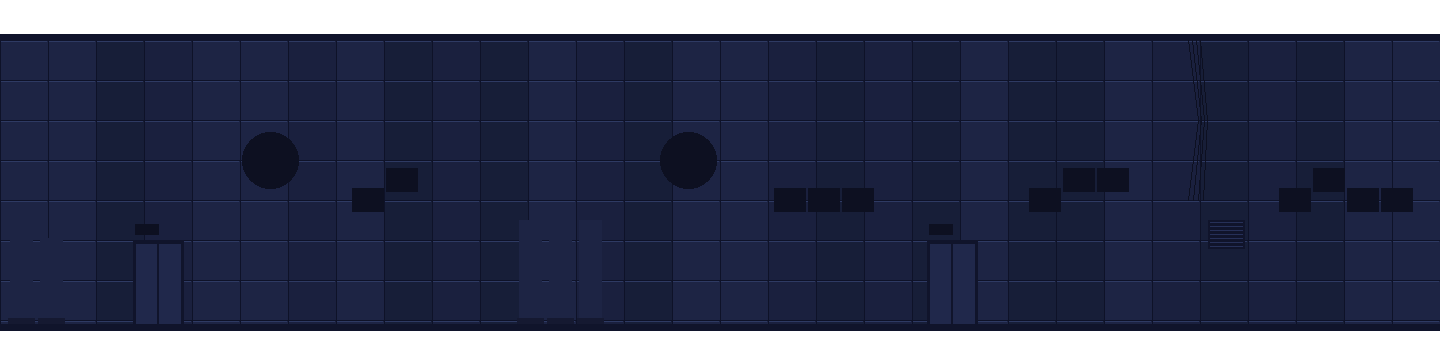
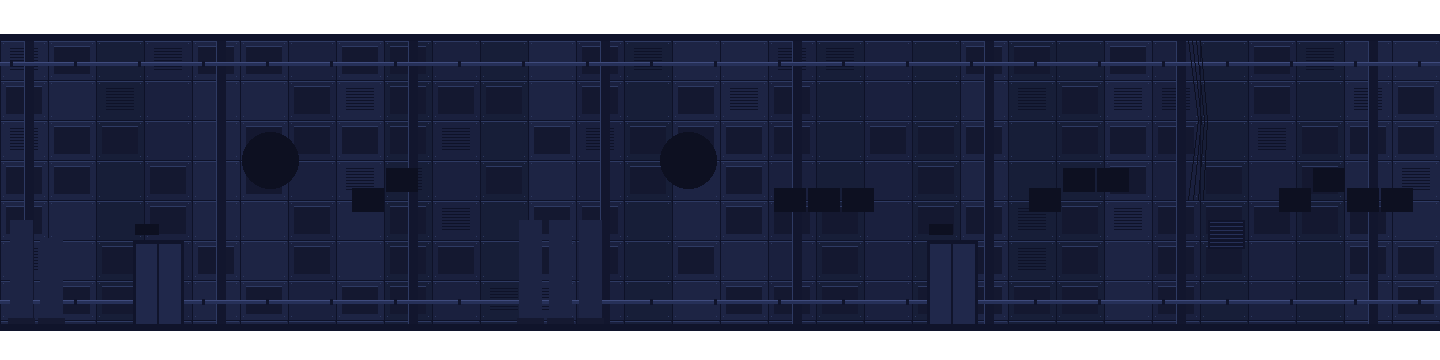
Vary the substructure, give lab walls architecture, add transition FX
- biome_art.under_layer: irregular arches with biome content instead of
  one repeated arch every 120 px (Lower City stalls/shops with signs,
  gated tunnels, slack cables, faded tags; Industrial furnace mouths,
  conveyors and hazard bands; Lab/Core maintenance corridor with lit
  portholes and conduit boxes). Fade starts lower so it reads.
- biome_art.lab_mid: panel insets, grilles, bolts, status lights, lit
  pilasters and conduit runs, from a separate RNG so existing equipment
  keeps its places. Other generated PNGs are byte-identical.
- scene/fx/transition_fx.gd: scan bands, a cyan scan line and glitch
  blocks drawn over the existing fade while it is mid-way; fade timing
  and logic unchanged; MINIMAL disables it.
- ui/loadout_hud.gd: larger type, big ammo count with low-ammo colour,
  recharge fill over accessory icons with seconds left, key hints only
  without touch.

Claude-Session: https://claude.ai/code/session_01BsDvQbboM7WnaEtQSbuWgs

diff --git a/tools/visual/biome_art.py b/tools/visual/biome_art.py
@@ -218,32 +218,103 @@ def city_mid():
     return pk.haze(lay.im, CITY["haze"], 0.18), signs.im, pk.glow(signs.im, 3.5, 2.2)
 
 
-def under_layer(seed, wall, dark, pipe, lights, arch=True):
+def under_layer(seed, wall, dark, pipe, lights, arch=True, kind="city"):
     """Substructure under the street (640x180 native): retaining wall, arches, pipes,
     service lights. Anchored right below the street line so the lower half of the
-    screen is never an empty void."""
+    screen is never an empty void.
+    01/11 (Missão Visual 02): arcos irregulares e conteúdo por bioma, para a faixa não
+    repetir o mesmo arco a cada 120 px — Cidade Baixa: barracas/lojas acesas, túneis com
+    grade, cabos e pichações; Industrial: bocas de forno e esteiras; Laboratório/Núcleo:
+    corredor de manutenção com escotilhas e caixas de conduíte."""
     c = Canvas(640, 180, wrap=True)
     rnd = random.Random(seed)
+    hi = mix(wall, (255, 255, 255), 0.12)
     c.rect(0, 0, 639, 179, rgba(wall))
-    c.rect(0, 0, 639, 2, rgba(mix(wall, (255, 255, 255), 0.12)))
+    c.rect(0, 0, 639, 2, rgba(hi))
     for y in range(8, 180, 14):                                     # masonry / panel courses
         c.rect(0, y, 639, y, rgba(mix(wall, dark, 0.5)))
     if arch:
-        for ax in range(20, 640, 120):                              # arches / culverts
-            c.ellipse(ax, 40, ax + 76, 150, rgba(dark))
-            c.rect(ax, 95, ax + 76, 179, rgba(dark))
-            c.d.arc((ax, 40, ax + 76, 150), 180, 360, fill=rgba(mix(wall, (255, 255, 255), 0.18)))
+        x = rnd.randint(4, 20)
+        while x < 600:
+            aw = rnd.randint(58, 96)
+            top = rnd.randint(36, 48)
+            c.ellipse(x, top, x + aw, top + aw + 20, rgba(dark))
+            c.rect(x, top + aw // 2 + 6, x + aw, 179, rgba(dark))
+            c.d.arc((x, top, x + aw, top + aw + 20), 180, 360, fill=rgba(mix(wall, (255, 255, 255), 0.18)))
+            cx = x + aw // 2
+            roll = rnd.random()
+            if kind == "city" and roll < 0.45:                         # barraca/loja acesa no arco
+                warm = rnd.choice([hexc("ffb347"), hexc("ff8a5a"), hexc("4fe3f0")])
+                c.rect(x + 10, top + 30, x + aw - 10, top + 62, rgba(mix(warm, dark, 0.55)))
+                c.rect(x + 12, top + 32, x + aw - 12, top + 46, rgba(mix(warm, dark, 0.25)))
+                for sy in range(top + 32, top + 46, 3):                # persiana meio aberta
+                    c.rect(x + 12, sy, x + aw - 12, sy, rgba(mix(warm, dark, 0.6)))
+                c.rect(x + 8, top + 62, x + aw - 8, top + 64, rgba(pipe))
+                sign = rnd.choice(["24H", "RAMEN", "FIX", "CHIPS", "BAR"])
+                sx = cx - pk.text_width(sign) // 2
+                c.rect(sx - 2, top + 20, sx + pk.text_width(sign) + 1, top + 27, rgba(dark))
+                pk.text(c, sx, top + 21, sign, rgba(rnd.choice([hexc("ff4fb4"), hexc("4fe3f0"), hexc("ffb347")])))
+            elif kind == "city" and roll < 0.70:                       # túnel com grade
+                for gx in range(x + 8, x + aw - 6, 6):
+                    c.rect(gx, top + 26, gx, 120, rgba(mix(wall, dark, 0.3)))
+                c.ellipse(cx - 6, top + 46, cx + 6, top + 54, rgba(mix(lights[0], dark, 0.6)))
+            elif kind == "industrial" and roll < 0.40:                 # boca de forno
+                for k in range(6):
+                    glow = mix(hexc("ff4a1f"), dark, k / 6)
+                    c.rect(x + 12 + k, top + 40 + k * 3, x + aw - 12 - k, top + 60, rgba(glow))
+                c.rect(x + 10, top + 60, x + aw - 10, top + 63, rgba(pipe))
+                for k in range(4):
+                    c.px(x + 16 + rnd.randint(0, aw - 30), top + 34 + rnd.randint(0, 6), rgba(hexc("ffd27a")))
+            elif kind == "industrial" and roll < 0.65:                 # esteira com caixas
+                c.rect(x + 6, top + 54, x + aw - 6, top + 57, rgba(pipe))
+                for bx in range(x + 10, x + aw - 14, 16):
+                    c.rect(bx, top + 46, bx + 10, top + 53, rgba(mix(hexc("6a4a2a"), dark, 0.3)))
+            if kind == "city" and rnd.random() < 0.6:                  # cartaz no pilar
+                px_ = x + aw + rnd.randint(6, 18)
+                c.rect(px_, 46, px_ + 10, 62, rgba(rnd.choice([hexc("5a2a5a"), hexc("2a4a6a"), hexc("6a5a2a")])))
+                c.rect(px_ + 2, 49, px_ + 8, 50, rgba(mix(wall, (255, 255, 255), 0.4)))
+            if kind == "industrial" and rnd.random() < 0.5:            # faixa de perigo no pilar
+                px_ = x + aw + 8
+                for k in range(0, 14, 4):
+                    c.rect(px_ + k, 70, px_ + k + 1, 74, rgba(hexc("ffb347")))
+            x += aw + rnd.randint(26, 64)
+    else:                                                           # corredor de manutenção (lab/núcleo)
+        c.rect(0, 46, 639, 76, rgba(mix(wall, dark, 0.35)))
+        c.rect(0, 46, 639, 46, rgba(hi))
+        x = rnd.randint(6, 30)
+        while x < 620:
+            if rnd.random() < 0.55:                                     # escotilha iluminada
+                c.ellipse(x, 52, x + 16, 68, rgba(pipe))
+                c.ellipse(x + 3, 55, x + 13, 65, rgba(mix(lights[0], dark, 0.45)))
+                c.px(x + 6, 57, rgba(mix(lights[0], (255, 255, 255), 0.4)))
+            else:                                                       # caixa de conduíte
+                c.rect(x, 54, x + 18, 68, rgba(pipe))
+                c.rect(x + 2, 56, x + 16, 57, rgba(mix(pipe, (255, 255, 255), 0.2)))
+                c.px(x + 14, 64, rgba(rnd.choice(lights)))
+            x += rnd.randint(30, 70)
     for py in (26, 34, 120):                                        # pipe runs
         c.rect(0, py, 639, py + 4, rgba(pipe))
         c.rect(0, py, 639, py, rgba(mix(pipe, (255, 255, 255), 0.25)))
         for cx in range(rnd.randint(0, 40), 640, rnd.randint(70, 110)):
             c.rect(cx, py - 1, cx + 3, py + 5, rgba(dark))
+    if kind == "city":
+        for _ in range(7):                                          # cabos frouxos entre os canos
+            x0 = rnd.randint(0, 600)
+            span = rnd.randint(40, 90)
+            sag = rnd.randint(4, 9)
+            pts = [(x0 + k * span / 8, 18 + sag * math.sin(math.pi * k / 8)) for k in range(9)]
+            c.line(pts, rgba(mix(dark, wall, 0.3)))
+        for _ in range(5):                                          # pichações apagadas
+            gx, gy = rnd.randint(0, 620), rnd.randint(66, 84)
+            col = rnd.choice([hexc("ff4fb4"), hexc("4fe3f0"), hexc("ffb347")])
+            pts = [(gx + k * 3, gy + rnd.randint(-3, 3)) for k in range(6)]
+            c.line(pts, rgba(mix(col, wall, 0.5), 200))
     for lx in range(60, 640, 160):                                  # service lights
         col = lights[(lx // 160) % len(lights)]
         c.rect(lx, 12, lx + 5, 14, rgba(col))
     fade = Canvas(640, 180)
-    for y in range(60, 180):                                        # sinks into darkness
-        k = min(1.0, (y - 60) / 110)
+    for y in range(76, 180):                                        # sinks into darkness
+        k = min(1.0, (y - 76) / 100)
         fade.rect(0, y, 639, y, rgba(dark, int(255 * round(k * 5) / 5)))
     c.im.alpha_composite(fade.im)
     return c.im
@@ -653,7 +724,7 @@ def build_industrial():
     far, beacons = ind_far()
     mid, signs, glow_ = ind_mid()
     images = {"sky": ind_sky(), "far": far, "far_beacons": beacons, "mid": mid, "mid_signs": signs, "mid_glow": glow_,
-              "under": under_layer(251, hexc("1e1a17"), hexc("0c0a09"), hexc("3a3430"), [hexc("ffb347"), hexc("ff4a3a")]),
+              "under": under_layer(251, hexc("1e1a17"), hexc("0c0a09"), hexc("3a3430"), [hexc("ffb347"), hexc("ff4a3a")], kind="industrial"),
               "rail": ind_gantry(), "mist_far": mist(hexc("5a5048"), 261, (14, 34)), "mist_near": mist(hexc("8a6a50"), 262, (12, 30))}
     images.update(ind_props())
     images.update(ind_tiles())
@@ -721,6 +792,29 @@ def lab_mid():
         for y in range(top, STREET, 40):
             lay.rect(x, y, x + 47, y, rgba(LAB["seam"]))
             lay.rect(x + 1, y + 1, x + 46, y + 1, rgba(LAB["edge"]))
+    detail = random.Random(317)                                     # 01/11: arquitetura dos painéis (RNG próprio)
+    for x in range(0, W, 48):
+        for y in range(top, STREET - 40, 40):
+            roll = detail.random()
+            if roll < 0.45:                                         # painel com recorte interno
+                lay.rect(x + 6, y + 6, x + 41, y + 33, rgba(mix(LAB["panel"][0], hexc("05070e"), 0.35)))
+                lay.rect(x + 6, y + 6, x + 41, y + 6, rgba(LAB["edge"]))
+            elif roll < 0.60:                                       # grelha
+                for gy in range(y + 8, y + 32, 3):
+                    lay.rect(x + 10, gy, x + 37, gy, rgba(LAB["seam"]))
+            for bx, by in ((x + 3, y + 3), (x + 44, y + 3), (x + 3, y + 36), (x + 44, y + 36)):
+                lay.px(bx, by, rgba(LAB["edge"]))                   # parafusos
+            if detail.random() < 0.12:
+                lights.px(x + 40, y + 10, rgba(detail.choice([LAB["cyan"], LAB["green"], LAB["mag"]])))
+    for px_ in range(24, W, 192):                                   # pilastras com fita de luz
+        lay.rect(px_, top, px_ + 9, STREET, rgba(hexc("10162c")))
+        lay.rect(px_, top, px_, STREET, rgba(LAB["edge"]))
+        lights.rect(px_ + 4, top + 12, px_ + 5, STREET - 20, rgba(LAB["cyan"], 110))
+    for cy in (top + 22, STREET - 30):                              # eletrodutos horizontais
+        lay.rect(0, cy, W - 1, cy + 3, rgba(hexc("2a3660")))
+        lay.rect(0, cy, W - 1, cy, rgba(hexc("4a5a90")))
+        for bx in range(10, W, 64):
+            lay.rect(bx, cy - 1, bx + 2, cy + 4, rgba(hexc("0e1428")))
     lay.rect(0, top - 6, W - 1, top, rgba(hexc("0e1428")))
     for x in range(0, W, 96):                                       # ceiling fluorescent bars
         col = LAB["mag"] if (x // 96) % 3 == 0 else LAB["white"]
@@ -866,7 +960,7 @@ def build_lab():
     far, lights = lab_far()
     mid, signs, glow_ = lab_mid()
     images = {"sky": lab_sky(), "far": far, "far_beacons": lights, "mid": mid, "mid_signs": signs, "mid_glow": glow_,
-              "under": under_layer(331, hexc("141a30"), hexc("070a16"), hexc("2a3660"), [LAB["cyan"], LAB["mag"]], arch=False),
+              "under": under_layer(331, hexc("141a30"), hexc("070a16"), hexc("2a3660"), [LAB["cyan"], LAB["mag"]], arch=False, kind="lab"),
               "rail": lab_ceiling(), "mist_far": mist(hexc("4a3a8a"), 341, (8, 22)), "mist_near": mist(hexc("8a4aa0"), 342, (8, 22))}
     images.update(lab_props())
     images.update(lab_tiles())
@@ -951,7 +1045,7 @@ def build_core():
     far, lights = core_far()
     mid, signs, glow_ = core_mid()
     images = {"sky": core_sky(), "far": far, "far_beacons": lights, "mid": mid, "mid_signs": signs, "mid_glow": glow_,
-              "under": under_layer(411, hexc("140c10"), hexc("060304"), hexc("2a1e22"), [CORE["red"]], arch=False),
+              "under": under_layer(411, hexc("140c10"), hexc("060304"), hexc("2a1e22"), [CORE["red"]], arch=False, kind="core"),
               "mist_far": mist(hexc("6a1a2a"), 421, (10, 26)), "mist_near": mist(hexc("8a2a3a"), 422, (8, 20))}
     images.update(core_props())
     images.update(core_tiles())
